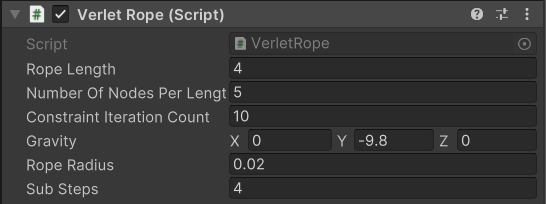
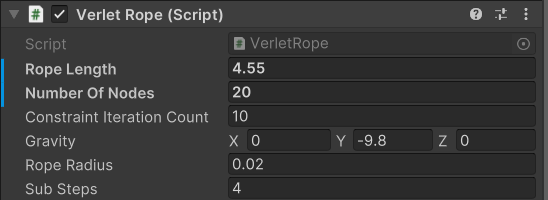
Update README.md

diff --git a/README.md b/README.md
@@ -26,11 +26,11 @@ The first is the `Verlet Rope` component. It has some fields:
 
 ![Verlet Rope Component](./VerletRope.png)
 * **Rope Length:** The length of the rope.
-* **Number of Nodes per Length:** How many nodes are on 1 unit of length of the rope. the more the nodes are, the more accurate the simualtion is, but also computationally heavier.
+* **Number of Nodes:** How many nodes the rope consists of. the more the nodes are, the more accurate the simualtion is, but it will be computationally heavier.
 * **Constraint Iteration Count:** How many times the constraints are applied in each timestep. The more the iterations, the stiffer the rope becomes.
 * **Gravity:** The gravity vector.
 * **Rope Radius:** The radius of the rope.
-* **Substeps:** The number of iterations simulation is run in each timestep. Improves accuracy.
+* **Substeps:** Each fixed delta time is divided into smaller time steps called substeps for better accuracy. This field sets the number of substeps. 
 
 The other component is the `Rope Renderer`. It has only one field:
 
